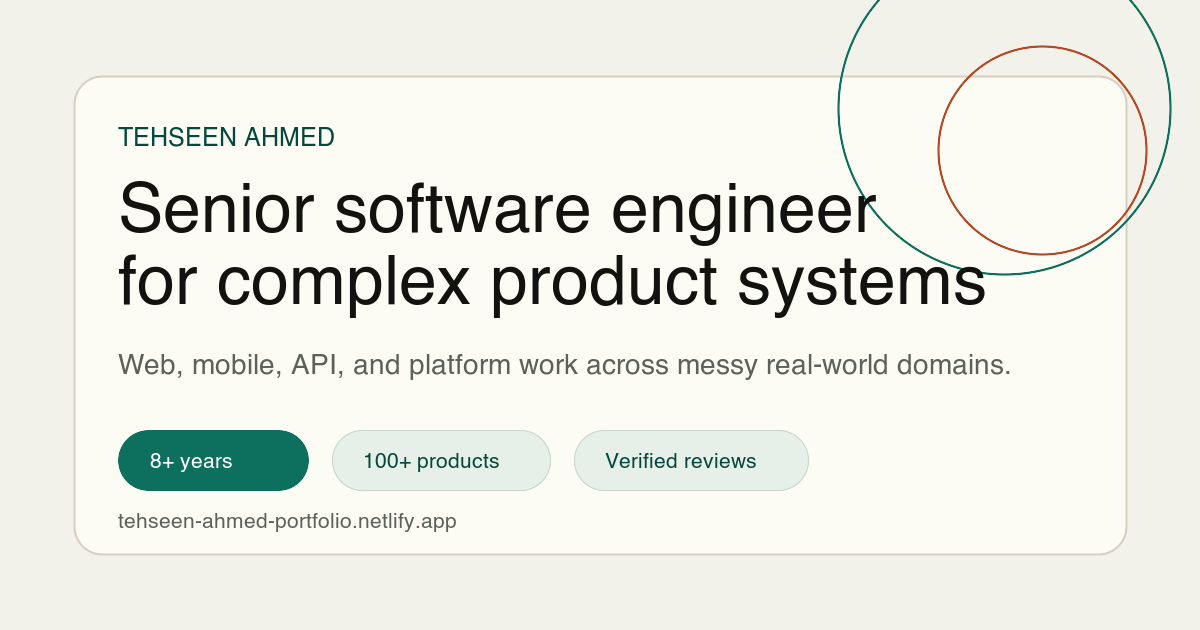
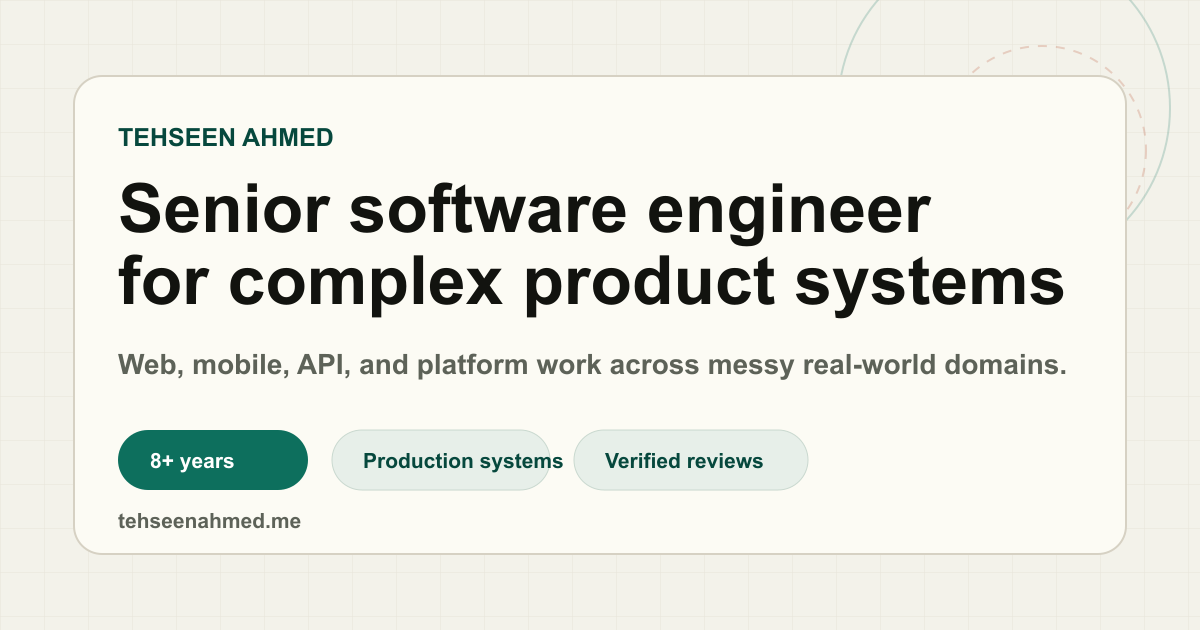
Update social preview for custom domain

diff --git a/index.html b/index.html
@@ -8,7 +8,7 @@
       name="description"
       content="Senior software engineer and technical lead for complex web, mobile, API, and platform systems."
     />
-    <link rel="canonical" href="https://tehseen-ahmed-portfolio.netlify.app/" />
+    <link rel="canonical" href="https://tehseenahmed.me/" />
     <meta name="theme-color" content="#eef1ed" />
     <meta name="author" content="Tehseen Ahmed" />
     <meta property="og:type" content="website" />
@@ -18,9 +18,9 @@
       property="og:description"
       content="Senior software engineer and technical lead for complex web, mobile, API, and platform systems."
     />
-    <meta property="og:url" content="https://tehseen-ahmed-portfolio.netlify.app/" />
-    <meta property="og:image" content="https://tehseen-ahmed-portfolio.netlify.app/assets/social-cover.png" />
-    <meta property="og:image:secure_url" content="https://tehseen-ahmed-portfolio.netlify.app/assets/social-cover.png" />
+    <meta property="og:url" content="https://tehseenahmed.me/" />
+    <meta property="og:image" content="https://tehseenahmed.me/assets/social-cover.png" />
+    <meta property="og:image:secure_url" content="https://tehseenahmed.me/assets/social-cover.png" />
     <meta property="og:image:width" content="1200" />
     <meta property="og:image:height" content="630" />
     <meta property="og:image:alt" content="Tehseen Ahmed, senior software engineer for complex product systems." />
@@ -30,7 +30,7 @@
       name="twitter:description"
       content="Senior software engineer and technical lead for complex web, mobile, API, and platform systems."
     />
-    <meta name="twitter:image" content="https://tehseen-ahmed-portfolio.netlify.app/assets/social-cover.png" />
+    <meta name="twitter:image" content="https://tehseenahmed.me/assets/social-cover.png" />
     <!-- Google tag (gtag.js) -->
     <script async src="https://www.googletagmanager.com/gtag/js?id=G-CPH3MHS4ET"></script>
     <script>
